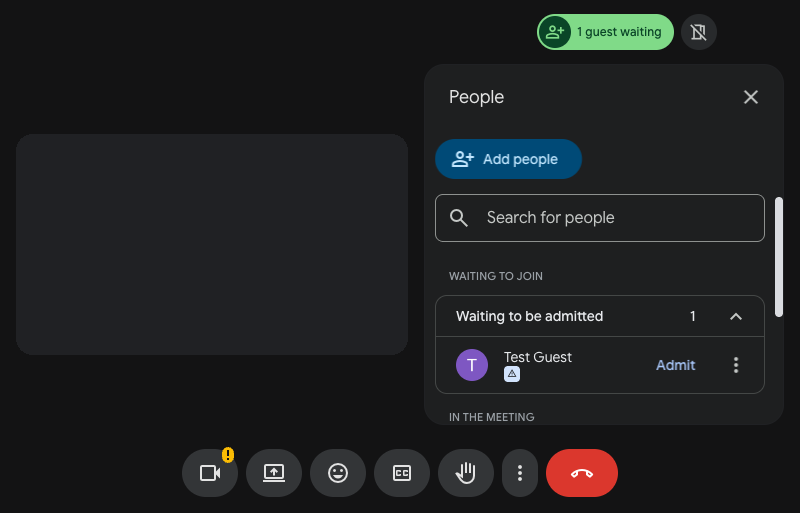
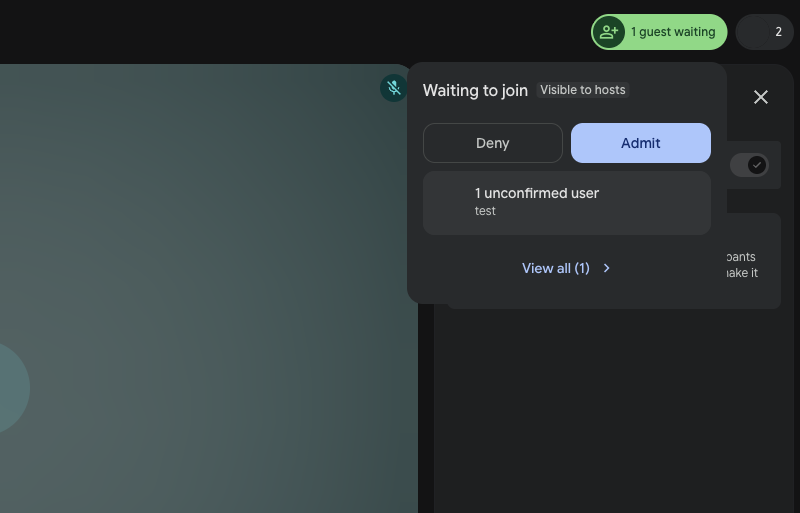
Screenshots: show the card on Meet's waiting button that the extension admits from: README.md, README.zh-TW.md, .github/assets/screens

diff --git a/README.md b/README.md
@@ -14,7 +14,7 @@
 </p>
 
 <p align="center">
-  <img src=".github/assets/screens/admit-en.png" alt="The Meet people panel with a guest waiting to be admitted">
+  <img src=".github/assets/screens/admit-en.png" alt="The card on Meet's guest waiting button, with Admit, while the chat panel stays open">
 </p>
 
 ---

diff --git a/README.zh-TW.md b/README.zh-TW.md
@@ -14,7 +14,7 @@
 </p>
 
 <p align="center">
-  <img src=".github/assets/screens/admit-zh-TW.png" alt="Meet 參與者面板，有一位訪客正在等待加入">
+  <img src=".github/assets/screens/admit-zh-TW.png" alt="Meet「正在等待」按鈕的小框，有接受鈕，聊天面板仍開著">
 </p>
 
 ---
